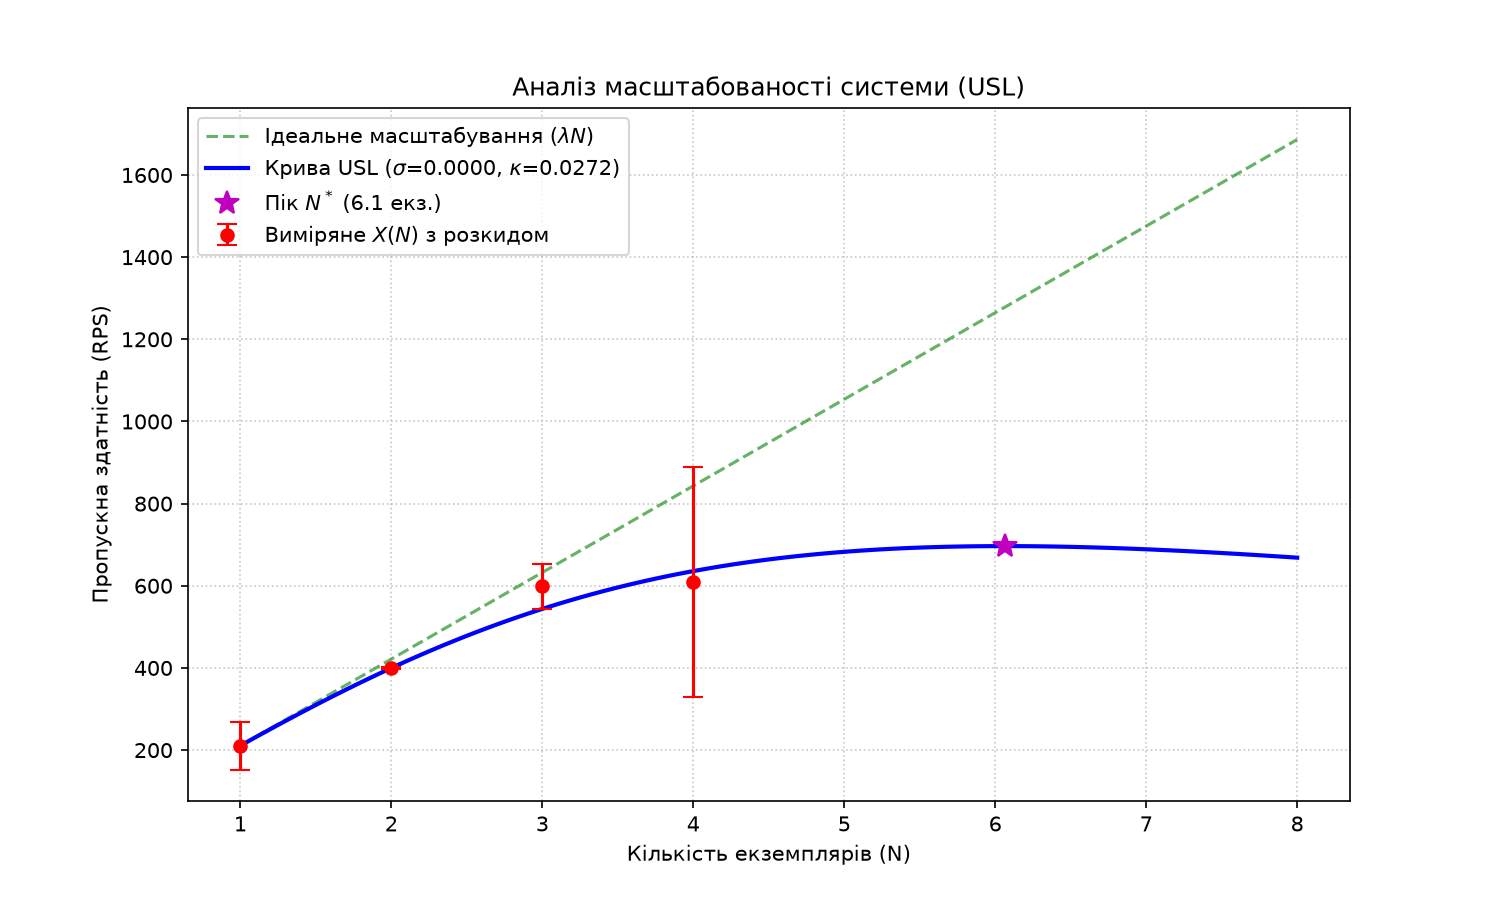
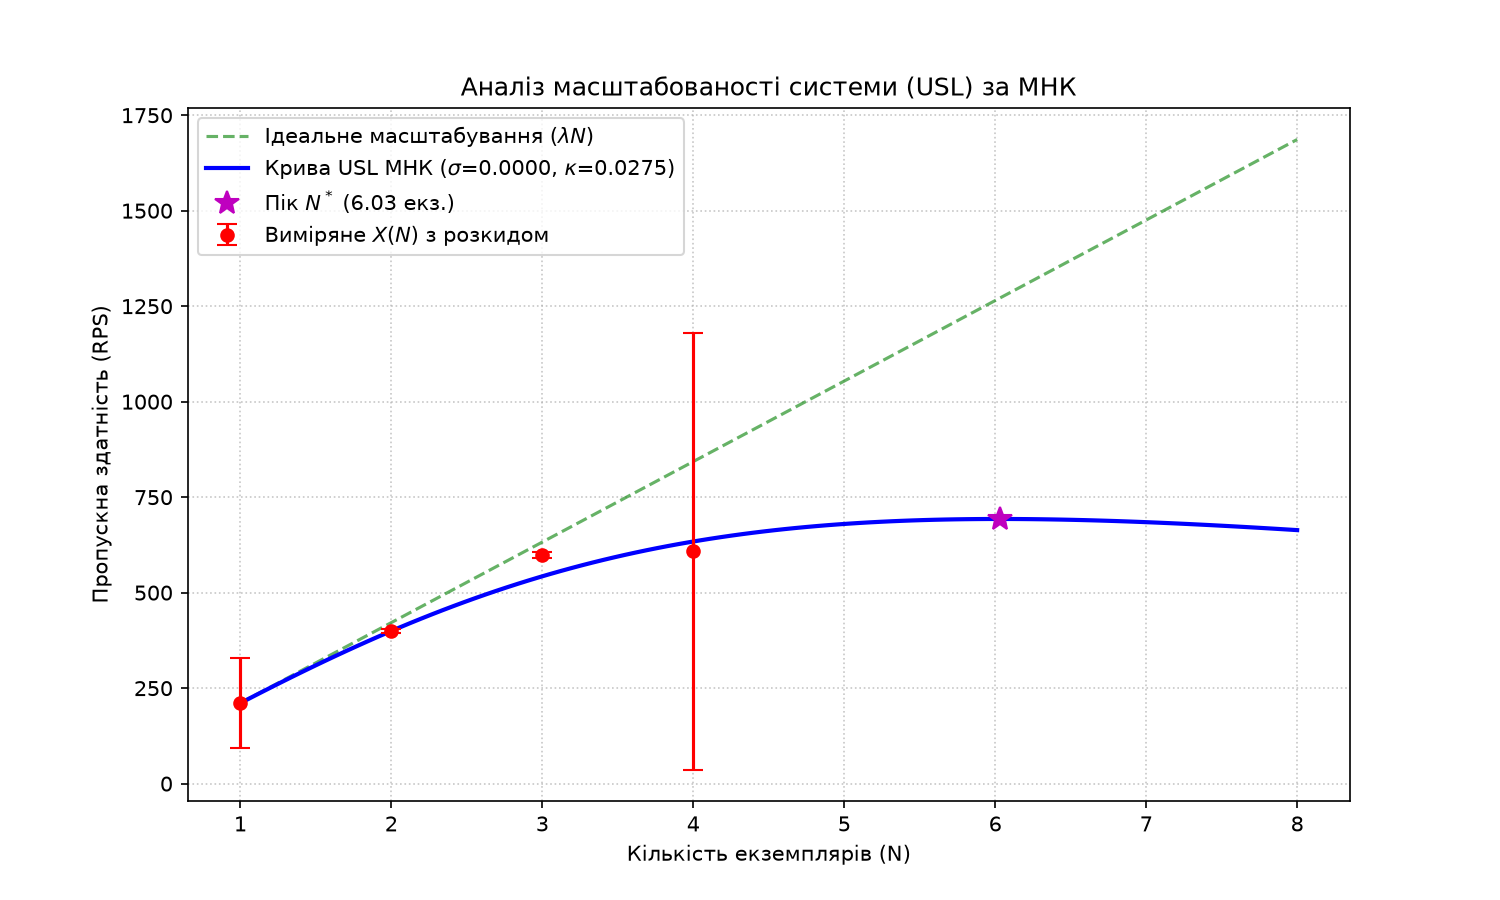
lab2(update)

diff --git a/app/main.py b/app/main.py
@@ -32,7 +32,7 @@ REQUEST_DURATION = Histogram(
 REQUESTS_IN_PROGRESS = Gauge(
     "http_requests_in_progress",
     "Number of HTTP requests currently being processed",
-    ["method", "path"]
+    ["method"]
 )
 
 @asynccontextmanager
@@ -41,20 +41,11 @@ async def lifespan(app: FastAPI):
     await engine.dispose()
 app = FastAPI(lifespan=lifespan)
 
-
-# --- 3. Проміжний обробник (middleware) для метрик та X-Pod ---
 @app.middleware("http")
 async def prometheus_metrics_middleware(request: Request, call_next):
     method = request.method
-
-    # Визначаємо шаблон шляху (наприклад, /dispensary/{id} замість /dispensary/123)[cite: 8]
-    path_template = request.url.path
-    if "route" in request.scope:
-        path_template = request.scope["route"].path
-
-    REQUESTS_IN_PROGRESS.labels(method=method, path=path_template).inc()
+    REQUESTS_IN_PROGRESS.labels(method=method).inc()
     start_time = time.time()
-
     try:
         response = await call_next(request)
         status_code = str(response.status_code)
@@ -63,13 +54,14 @@ async def prometheus_metrics_middleware(request: Request, call_next):
         status_code = "500"
         raise e
     finally:
+        path_template = request.url.path
+        if "route" in request.scope:
+            path_template = request.scope["route"].path
         duration = time.time() - start_time
         REQUEST_DURATION.labels(method=method, path=path_template).observe(duration)
         REQUEST_COUNTER.labels(method=method, path=path_template, code=status_code).inc()
-        REQUESTS_IN_PROGRESS.labels(method=method, path=path_template).dec()
-
+        REQUESTS_IN_PROGRESS.labels(method=method).dec()
     return response
-
 
 @app.exception_handler(RequestValidationError)
 async def validation_exception_handler(request: Request, exc: RequestValidationError):
@@ -78,17 +70,13 @@ async def validation_exception_handler(request: Request, exc: RequestValidationE
         content={"detail": str(exc.errors())}
     )
 
-
-# --- 4. Ендпоінти для метрик та healthcheck ---
 @app.get("/metrics")
 def get_metrics():
     return PlainTextResponse(generate_latest(), media_type=CONTENT_TYPE_LATEST)
 
-
 @app.get("/livez", status_code=status.HTTP_200_OK)
 def livez():
     return {"status": "ok"}
-
 
 @app.get("/healthz", status_code=status.HTTP_200_OK)
 async def healthcheck(db: AsyncSession = Depends(get_db)):
@@ -98,8 +86,6 @@ async def healthcheck(db: AsyncSession = Depends(get_db)):
     except Exception:
         raise HTTPException(status_code=503, detail="DB unavailable")
 
-
-# --- 5. Ваші бізнес-ендпоінти (CRUD) ---
 @app.post("/dispensary", response_model=DispensaryOut, status_code=status.HTTP_201_CREATED)
 async def create_record(record: DispensaryCreate, db: AsyncSession = Depends(get_db)):
     db_record = DispensaryRecord(**record.model_dump())
@@ -107,7 +93,6 @@ async def create_record(record: DispensaryCreate, db: AsyncSession = Depends(get
     await db.commit()
     await db.refresh(db_record)
     return db_record
-
 
 @app.get("/dispensary", response_model=DispensaryListOut)
 async def get_records(
@@ -125,14 +110,12 @@ async def get_records(
     result = await db.execute(query)
     return {"items": result.scalars().all(), "total": total}
 
-
 @app.get("/dispensary/{id}", response_model=DispensaryOut)
 async def get_record(id: UUID, db: AsyncSession = Depends(get_db)):
     record = await db.scalar(select(DispensaryRecord).where(DispensaryRecord.id == id))
     if not record:
         raise HTTPException(status_code=404, detail="Not found")
     return record
-
 
 @app.put("/dispensary/{id}", response_model=DispensaryOut)
 async def update_record(id: UUID, record_in: DispensaryCreate, db: AsyncSession = Depends(get_db)):
@@ -144,7 +127,6 @@ async def update_record(id: UUID, record_in: DispensaryCreate, db: AsyncSession 
     await db.commit()
     await db.refresh(db_record)
     return db_record
-
 
 @app.delete("/dispensary/{id}", status_code=status.HTTP_204_NO_CONTENT)
 async def delete_record(id: UUID, db: AsyncSession = Depends(get_db)):

diff --git a/usl_model.py b/usl_model.py
@@ -1,47 +1,82 @@
 import numpy as np
 import matplotlib.pyplot as plt
-from scipy.optimize import curve_fit
 
 N_measured = np.array([1, 2, 3, 4])
 X_measured = np.array([210.80, 399.93, 598.53, 609.00])
-X_errors = np.array([58, 3, 55, 280])
+X_errors = np.array([117, 6, 7, 572])
+
 lam = X_measured[0]
 
-def usl_model(n, sigma, kappa):
-    return (lam * n) / (1 + sigma * (n - 1) + kappa * n * (n - 1))
+N_calc = N_measured[1:]
+X_calc = X_measured[1:]
 
-popt, _ = curve_fit(usl_model, N_measured, X_measured, bounds=(0, 1))
-sigma, kappa = popt
+C = X_calc / lam
+
+y = (N_calc / C) - 1
+u = N_calc - 1
+v = N_calc * (N_calc - 1)
+
+sum_u2 = np.sum(u**2)
+sum_v2 = np.sum(v**2)
+sum_uv = np.sum(u * v)
+sum_uy = np.sum(u * y)
+sum_vy = np.sum(v * y)
+
+print("--- Проміжні розрахунки МНК ---")
+print(f"C(N): {C}")
+print(f"y(N): {y}")
+print(f"u(N): {u}")
+print(f"v(N): {v}")
+print(f"Сума u^2: {sum_u2}")
+print(f"Сума v^2: {sum_v2}")
+print(f"Сума u*v: {sum_uv}")
+print(f"Сума u*y: {sum_uy:.4f}")
+print(f"Сума v*y: {sum_vy:.4f}\n")
+
+det = (sum_u2 * sum_v2) - (sum_uv**2)
+sigma = ((sum_uy * sum_v2) - (sum_vy * sum_uv)) / det
+kappa = ((sum_u2 * sum_vy) - (sum_uv * sum_uy)) / det
+
+print(f"Початкова оцінка МНК: σ = {sigma:.4f}, κ = {kappa:.4f}")
+
+if sigma < 0:
+    print("Оскільки σ < 0, прирівнюємо σ = 0 і перераховуємо κ (κ = Σvy / Σv^2):")
+    sigma = 0.0
+    kappa = sum_vy / sum_v2
 
 if kappa > 0:
     N_star = np.sqrt((1 - sigma) / kappa)
 else:
     N_star = float('inf')
 
-print(f"--- Результати розрахунку USL ---")
+print(f"\n--- Фінальні результати USL ---")
 print(f"λ (X(1)) = {lam:.2f}")
 print(f"σ (Конкуренція) = {sigma:.4f}")
 print(f"κ (Узгодженість) = {kappa:.4f}")
 print(f"Оптимальна кількість екземплярів N* = {N_star:.2f}")
 
-N_smooth = np.linspace(1, max(7, int(N_star) + 2), 100)
+def usl_model(n, s, k):
+    return (lam * n) / (1 + s * (n - 1) + k * n * (n - 1))
+
+N_smooth = np.linspace(1, 8, 100)
 X_usl = usl_model(N_smooth, sigma, kappa)
 X_linear = lam * N_smooth
-
 plt.figure(figsize=(10, 6))
+
 plt.plot(N_smooth, X_linear, 'g--', label=r"Ідеальне масштабування ($\lambda N$)", alpha=0.6)
-plt.plot(N_smooth, X_usl, 'b-', label=rf"Крива USL ($\sigma$={sigma:.4f}, $\kappa$={kappa:.4f})", linewidth=2)
+plt.plot(N_smooth, X_usl, 'b-', label=rf"Крива USL МНК ($\sigma$={sigma:.4f}, $\kappa$={kappa:.4f})", linewidth=2)
 plt.errorbar(N_measured, X_measured, yerr=X_errors, fmt='ro', label="Виміряне $X(N)$ з розкидом", capsize=5)
 
 if N_star != float('inf') and N_star < N_smooth[-1]:
     X_max = usl_model(N_star, sigma, kappa)
-    plt.plot(N_star, X_max, 'm*', markersize=12, label=f"Пік $N^*$ ({N_star:.1f} екз.)")
+    plt.plot(N_star, X_max, 'm*', markersize=12, label=f"Пік $N^*$ ({N_star:.2f} екз.)")
 
 plt.xlabel("Кількість екземплярів (N)")
 plt.ylabel("Пропускна здатність (RPS)")
-plt.title("Аналіз масштабованості системи (USL)")
+plt.title("Аналіз масштабованості системи (USL) за МНК")
 plt.legend()
 plt.grid(True, linestyle=':', alpha=0.7)
 
 plt.savefig("usl_chart.png", dpi=150)
 print("\nГрафік успішно збережено як usl_chart.png")
+plt.show()

diff --git a/plot_m2.py b/plot_m2.py
@@ -1,18 +1,62 @@
+import requests
+import datetime
 import matplotlib.pyplot as plt
 
-rps_steps = [200, 400, 600, 800, 1000]
-metric_n1 = [10, 10, 10, 10, 10]
-metric_n4 = [10, 20, 30, 40, 40]
+PROM_URL = "http://localhost:9090"
+
+START_TIME_N1 = "2026-10-29 20:43:29"
+START_TIME_N4 = "2026-10-29 20:52:35"
+
+stages_n1 = [
+    {"rps": 200, "start_sec": 10, "end_sec": 30},
+    {"rps": 400, "start_sec": 30, "end_sec": 50},
+    {"rps": 600, "start_sec": 50, "end_sec": 70},
+]
+
+stages_n4 = [
+    {"rps": 200, "start_sec": 10, "end_sec": 30},
+    {"rps": 400, "start_sec": 30, "end_sec": 50},
+    {"rps": 600, "start_sec": 50, "end_sec": 70},
+    {"rps": 800, "start_sec": 70, "end_sec": 90},
+    {"rps": 1000, "start_sec": 90, "end_sec": 110},
+]
+
+def get_prom_data(start_str, stages):
+    dt_start = datetime.datetime.strptime(start_str, "%Y-%m-%d %H:%M:%S")
+    ts_start = dt_start.timestamp()
+    rps_list = []
+    conn_list = []
+    for stage in stages:
+        q_start = ts_start + stage["start_sec"]
+        q_end = ts_start + stage["end_sec"]
+        query = 'sum(pg_stat_activity_count{state="active"})'
+        try:
+            res = requests.get(f"{PROM_URL}/api/v1/query_range", params={
+                "query": query, "start": q_start, "end": q_end, "step": "1s"
+            }).json()
+            max_val = 0
+            if res.get('data') and res.get('data').get('result'):
+                vals = [float(v[1]) for v in res['data']['result'][0]['values']]
+                max_val = max(vals) if vals else 0
+            rps_list.append(stage["rps"])
+            conn_list.append(max_val)
+        except Exception as e:
+            print(f"Помилка Prometheus: {e}")
+            rps_list.append(stage["rps"])
+            conn_list.append(0)
+    return rps_list, conn_list
+
+print("Отримання даних з Prometheus...")
+rps_n1, conn_n1 = get_prom_data(START_TIME_N1, stages_n1)
+rps_n4, conn_n4 = get_prom_data(START_TIME_N4, stages_n4)
 
 plt.figure(figsize=(10, 6))
-
-plt.plot(rps_steps, metric_n1, marker='o', linestyle='-', color='blue', label='N = 1', markersize=8)
-plt.plot(rps_steps, metric_n4, marker='s', linestyle='-', color='green', label='N = 4', markersize=8)
-
-plt.title('Залежність кількості активних з\'єднань БД від інтенсивності')
+plt.plot(rps_n1, conn_n1, marker='o', linestyle='-', color='blue', label='N = 1', markersize=8)
+plt.plot(rps_n4, conn_n4, marker='s', linestyle='-', color='green', label='N = 4', markersize=8)
+plt.title('Залежність кількості активних з\'єднань БД від заданої інтенсивності')
 plt.xlabel('Задана інтенсивність (RPS)')
 plt.ylabel('Активні з\'єднання (pg_stat_activity_count)')
-plt.xticks(rps_steps)
+plt.xticks([200, 400, 600, 800, 1000])
 plt.legend()
 plt.grid(True, linestyle='--', alpha=0.7)
 
@@ -24,3 +68,4 @@ plt.text(200, 41, 'Ліміт пулу (N=4)', color='green', fontsize=9)
 plt.tight_layout()
 plt.savefig('m2_metric_chart.png', dpi=150)
 print("Діаграму успішно збережено як m2_metric_chart.png")
+plt.show()
